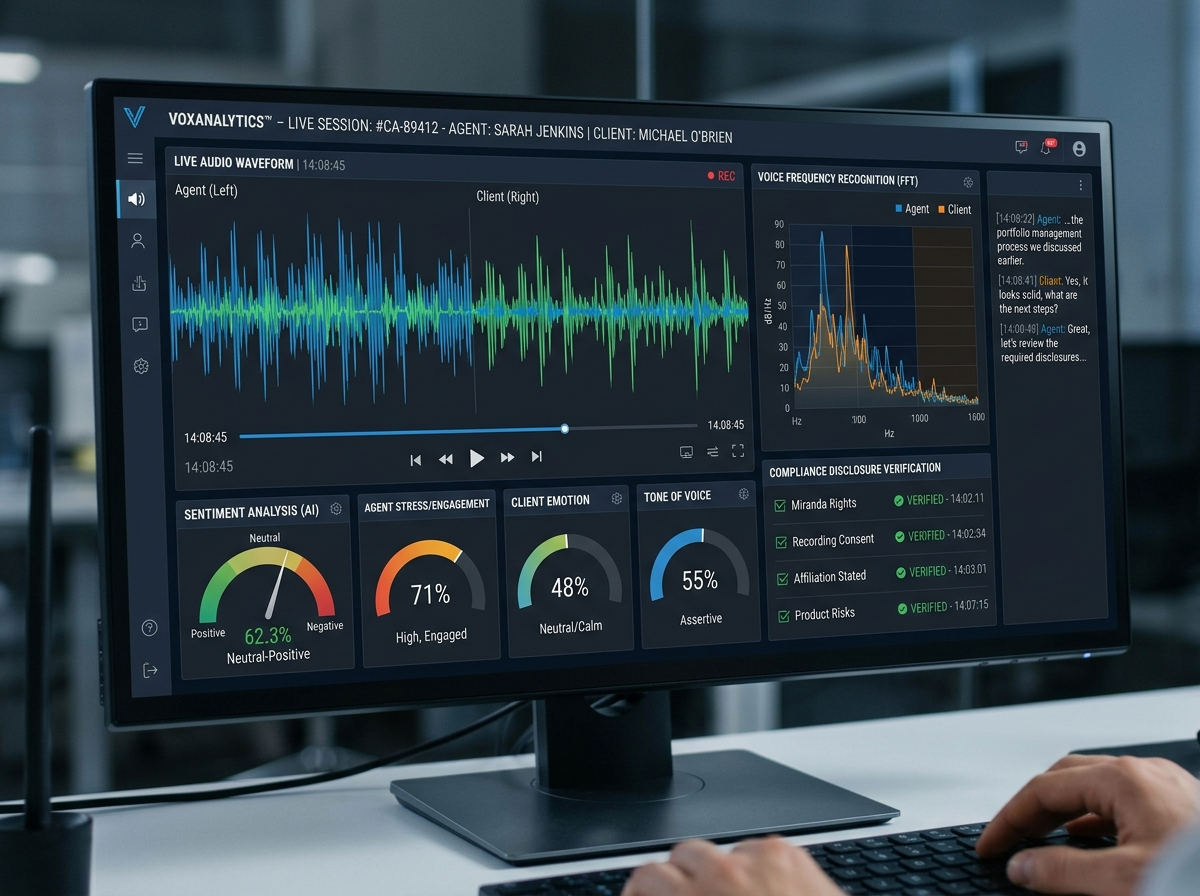
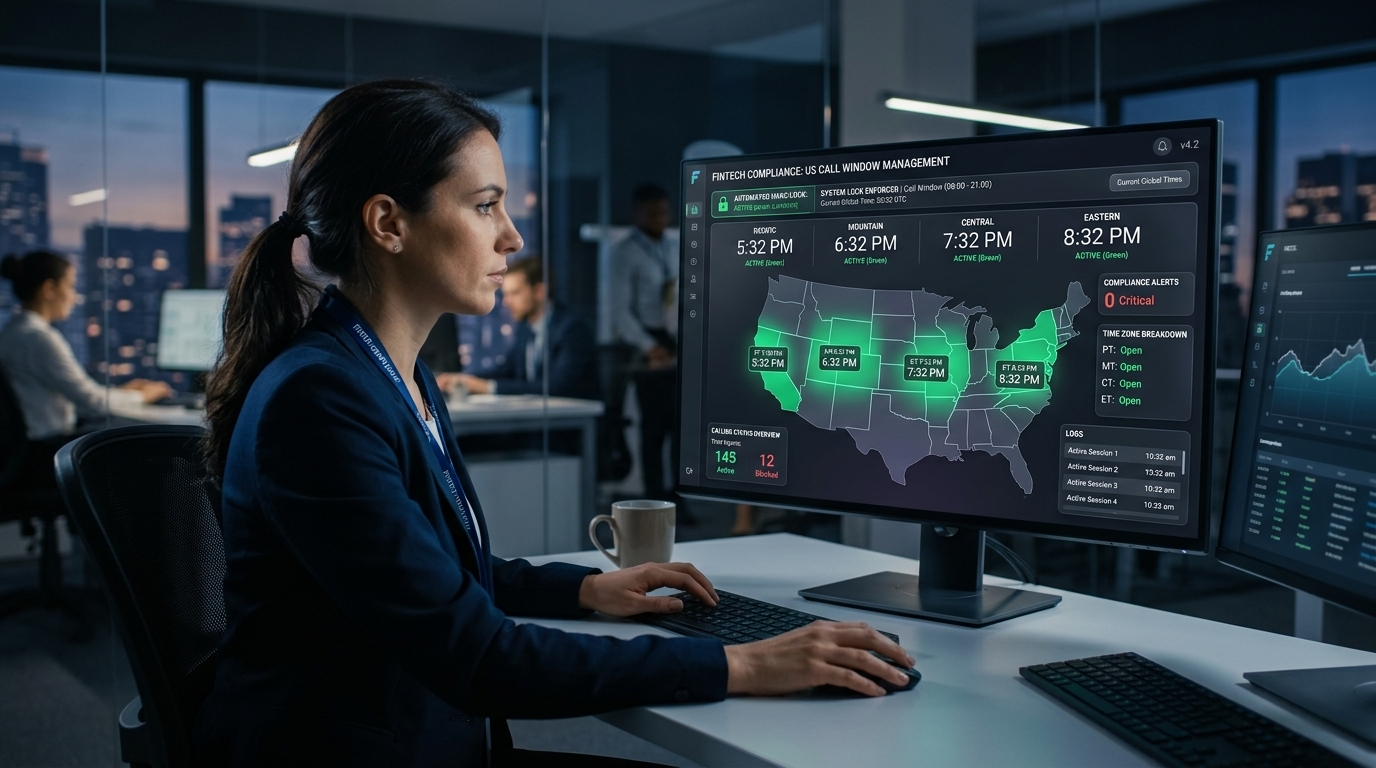
first commit

diff --git a/recovery-process.html b/recovery-process.html
@@ -460,16 +460,16 @@
          ========================================================================== -->
     <section class="section" id="escrowRemittance" style="background-color: var(--bg-surface-alt);" aria-label="Escrow Remittance Pipeline">
       <div class="container">
-        <div class="grid grid-2" style="align-items: center; gap: 4rem;">
+        <div class="escrow-split-grid">
           <div class="reveal-fade-right">
-            <figure class="hero-image-frame" style="border-radius: var(--radius-2xl); overflow: hidden; border: 1.5px solid var(--border-gold); box-shadow: var(--shadow-2xl); position: relative;">
-              <img src="assets/images/sections/process-wire-escrow.jpg" alt="Institutional Wire Escrow Settlement Room" style="width: 100%; height: 440px; object-fit: cover;">
-              <div style="position: absolute; bottom: 1.25rem; left: 1.25rem; right: 1.25rem; background: rgba(10, 25, 47, 0.92); backdrop-filter: blur(12px); border: 1px solid var(--border-gold); border-radius: var(--radius-lg); padding: 1rem 1.25rem; display: flex; justify-content: space-between; align-items: center;">
-                <div style="display: flex; align-items: center; gap: 0.6rem;">
+            <figure class="hero-image-frame escrow-visual-frame">
+              <img src="assets/images/sections/process-wire-escrow.jpg" alt="Institutional Wire Escrow Settlement Room" width="600" height="440" loading="lazy">
+              <div class="escrow-badge-overlay">
+                <div class="escrow-badge-left">
                   <span class="beacon-pulse-dot"></span>
-                  <span style="font-size: 0.82rem; font-weight: 800; color: #FFFFFF; font-family: var(--font-heading);">FDIC-INSURED ESCROW VAULT</span>
+                  <span class="escrow-badge-title">FDIC-INSURED ESCROW VAULT</span>
                 </div>
-                <span style="font-size: 0.72rem; font-weight: 800; color: #10B981; background: rgba(16, 185, 129, 0.15); padding: 0.2rem 0.6rem; border-radius: 9999px;">AUDIT VERIFIED</span>
+                <span class="escrow-badge-status">AUDIT VERIFIED</span>
               </div>
             </figure>
           </div>

diff --git a/assets/css/style.css b/assets/css/style.css
@@ -8568,11 +8568,79 @@ ul, ol {
 }
 
 /* --- Section 5: Escrow Remittance Timeline Showcase --- */
+.escrow-split-grid {
+  display: grid;
+  grid-template-columns: 1fr 1fr;
+  gap: 4rem;
+  align-items: center;
+}
+
+.escrow-visual-frame {
+  margin: 0;
+  position: relative;
+  border-radius: var(--radius-2xl);
+  overflow: hidden;
+  border: 1.5px solid var(--border-gold);
+  box-shadow: var(--shadow-2xl);
+  background-color: #0A192F;
+}
+
+.escrow-visual-frame img {
+  width: 100%;
+  height: 440px;
+  object-fit: cover;
+  display: block;
+}
+
+.escrow-badge-overlay {
+  position: absolute;
+  bottom: 1.25rem;
+  left: 1.25rem;
+  right: 1.25rem;
+  background: rgba(10, 25, 47, 0.92);
+  backdrop-filter: blur(12px);
+  -webkit-backdrop-filter: blur(12px);
+  border: 1px solid var(--border-gold);
+  border-radius: var(--radius-lg);
+  padding: 0.9rem 1.25rem;
+  display: flex;
+  justify-content: space-between;
+  align-items: center;
+  z-index: 2;
+  box-shadow: 0 4px 20px rgba(0, 0, 0, 0.35);
+}
+
+.escrow-badge-left {
+  display: flex;
+  align-items: center;
+  gap: 0.6rem;
+}
+
+.escrow-badge-title {
+  font-size: 0.82rem;
+  font-weight: 800;
+  color: #FFFFFF;
+  font-family: var(--font-heading);
+  letter-spacing: 0.03em;
+}
+
+.escrow-badge-status {
+  font-size: 0.72rem;
+  font-weight: 800;
+  color: #10B981;
+  background: rgba(16, 185, 129, 0.15);
+  border: 1px solid rgba(16, 185, 129, 0.3);
+  padding: 0.25rem 0.65rem;
+  border-radius: 9999px;
+  letter-spacing: 0.04em;
+  white-space: nowrap;
+}
+
 .escrow-cards-timeline {
   display: flex;
   flex-direction: column;
   gap: 1.25rem;
-  margin: 2rem 0;
+  margin: 2rem 0 0 0;
 }
 
 .escrow-step-item {

diff --git a/assets/css/responsive.css b/assets/css/responsive.css
@@ -321,6 +321,20 @@
     gap: 1.25rem;
   }
 
+  /* Escrow Remittance Split Grid Tablet */
+  .escrow-split-grid {
+    grid-template-columns: 1fr !important;
+    gap: 2.75rem !important;
+  }
+
+  .escrow-visual-frame {
+    margin-bottom: 0 !important;
+  }
+
+  .escrow-visual-frame img {
+    height: 380px !important;
+  }
+
   /* Home 2 Council Pavilion Tablet */
   .council-governance-grid {
     grid-template-columns: 1fr;
@@ -811,6 +825,36 @@
   .safeharbor-steps-box,
   .dispute-terminal-box {
     padding: 1.75rem 1.25rem;
+  }
+
+  /* Escrow Remittance Split Grid Mobile */
+  .escrow-split-grid {
+    grid-template-columns: 1fr !important;
+    gap: 2.25rem !important;
+  }
+
+  .escrow-visual-frame {
+    margin-bottom: 0 !important;
+  }
+
+  .escrow-visual-frame img {
+    height: 280px !important;
+  }
+
+  .escrow-badge-overlay {
+    padding: 0.75rem 1rem !important;
+    bottom: 0.85rem !important;
+    left: 0.85rem !important;
+    right: 0.85rem !important;
+  }
+
+  .escrow-badge-title {
+    font-size: 0.72rem !important;
+  }
+
+  .escrow-badge-status {
+    font-size: 0.65rem !important;
+    padding: 0.2rem 0.5rem !important;
   }
 
   /* Footer on Mobile */
